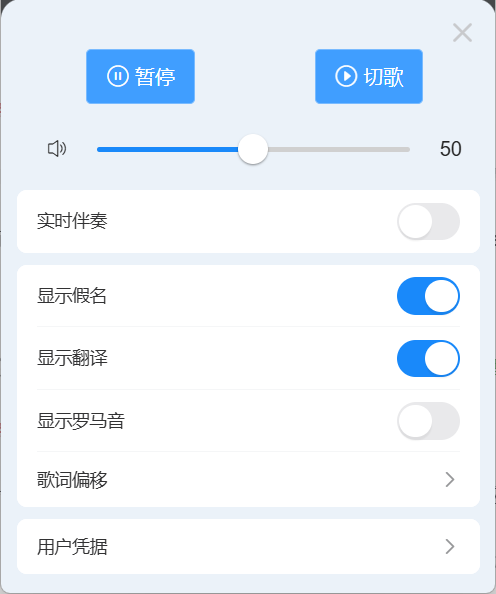
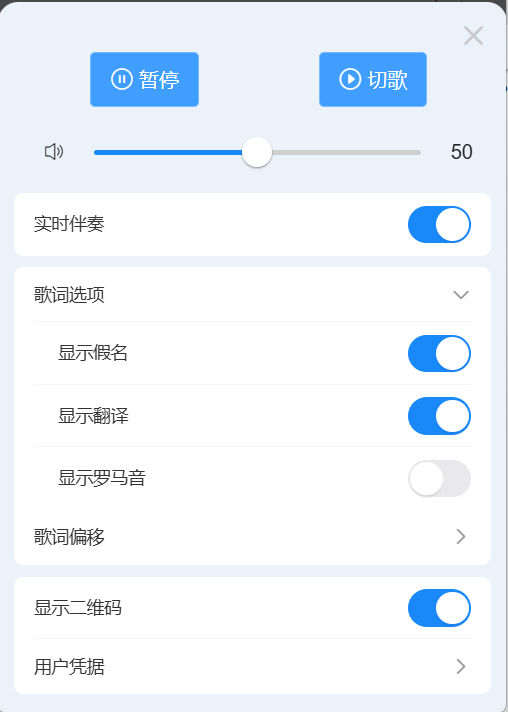
资源更新

diff --git a/README.md b/README.md
@@ -2,7 +2,7 @@
 
 **轻松随地大小K**
 
-## 🌟当前版本🌟 ➡ [✌v1.1.0🐯](https://github.com/li-yuan-fang/EasyK/releases/tag/v1.1.0)
+## 🌟当前版本🌟 ➡ [✌v1.1.1🐯](https://github.com/li-yuan-fang/EasyK/releases/tag/v1.1.1)
 
 ![播放窗口1](./docs/assets/r1.png)
 
@@ -43,6 +43,8 @@
 ## TODO
 
 - [ ] 优化使用体验
+
+- [ ] 尝试引入新的伴奏处理方案
 
 - [ ] ~~修Bug~~
   
